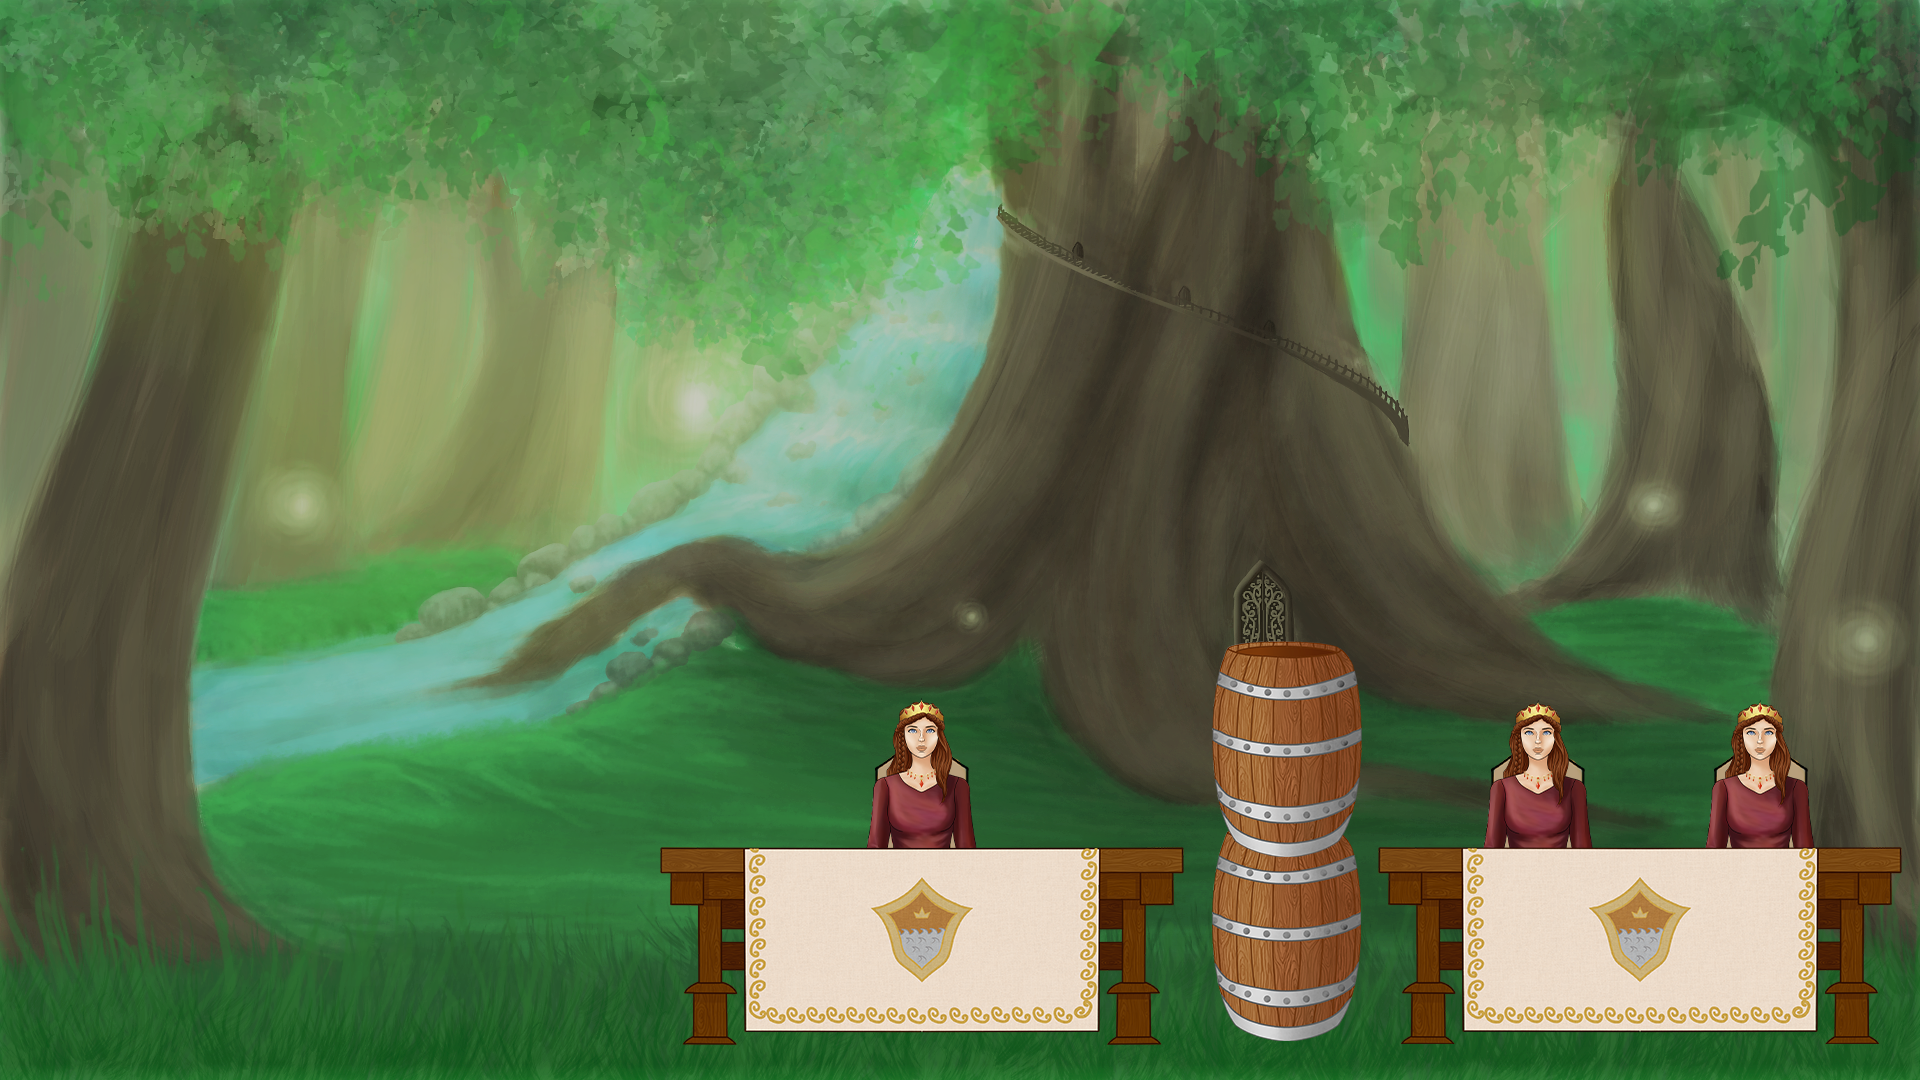
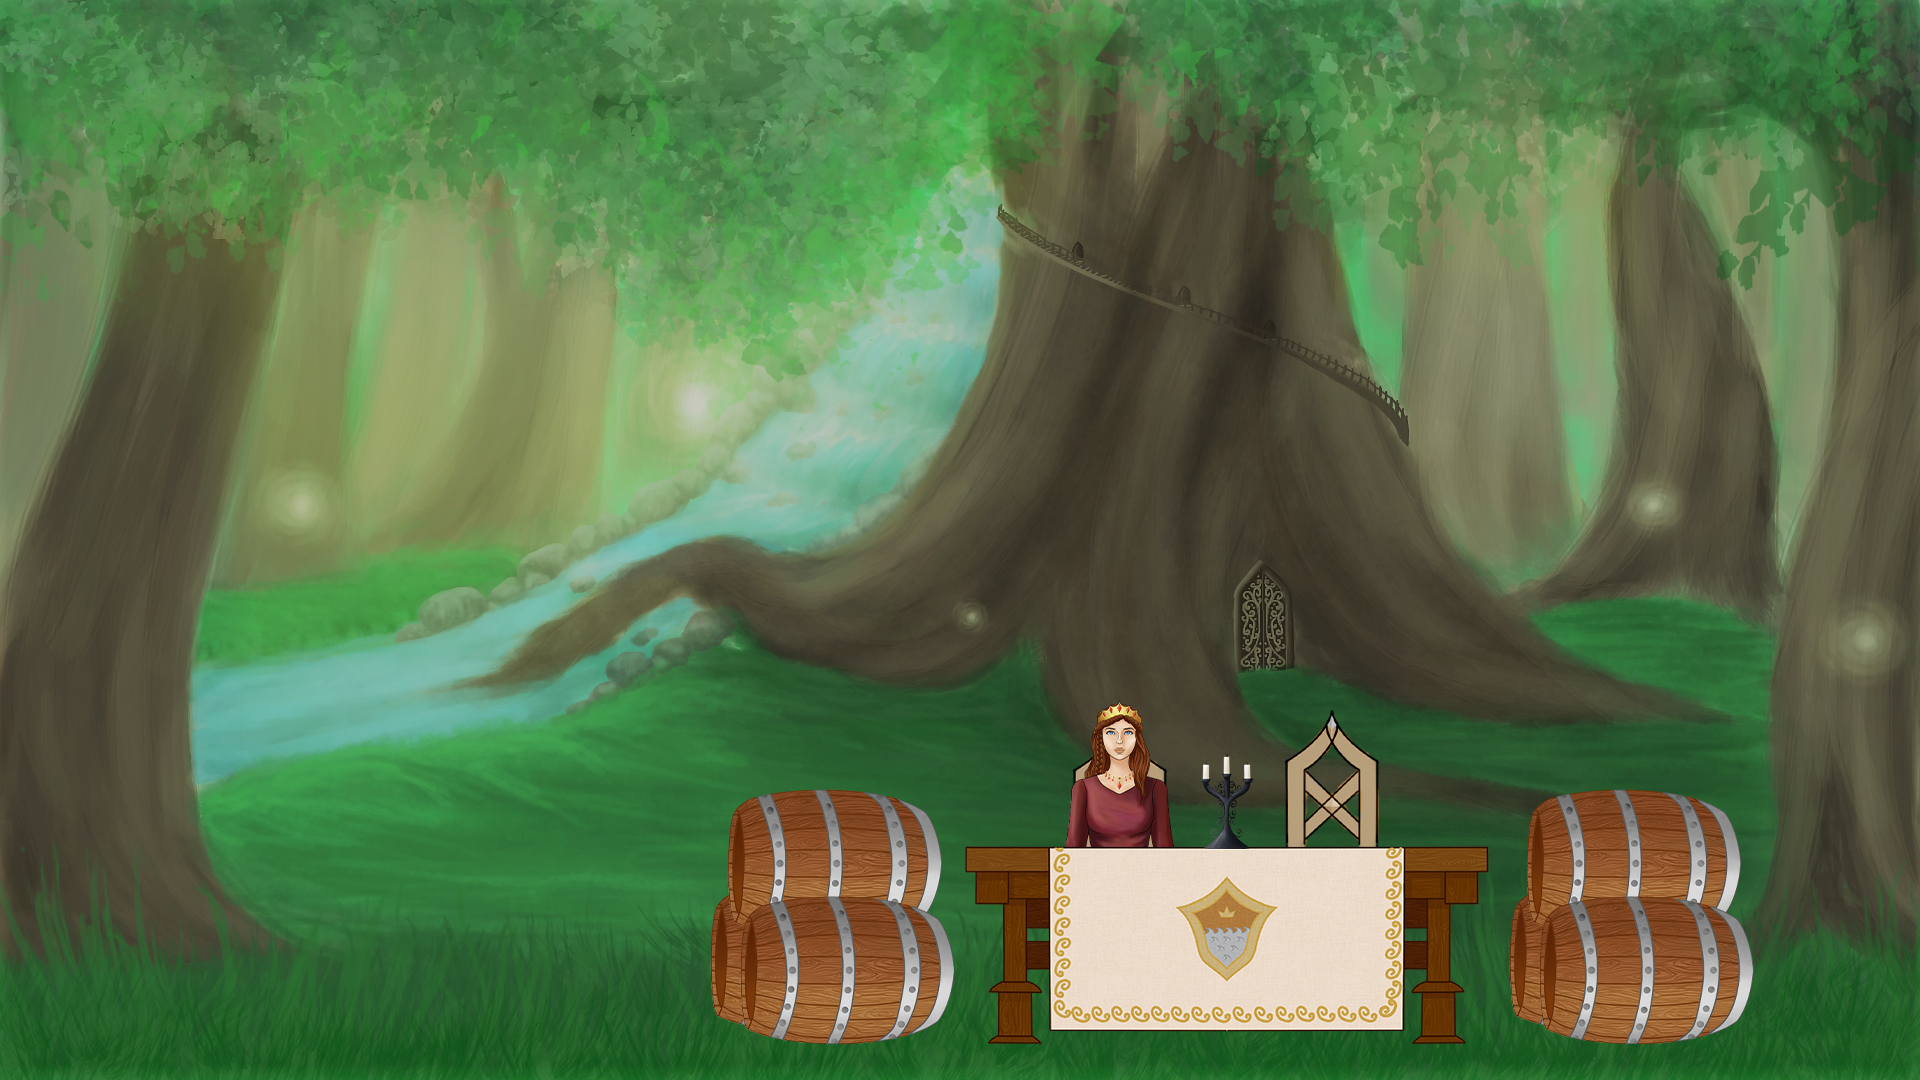
Add bunch of basic levels

Changed region(s): [[0.3438, 0.5806, 1.0, 0.9778]]

diff --git a/core/src/fi/tuni/tamk/tiko/kingsfeast/LevelBuilder.java b/core/src/fi/tuni/tamk/tiko/kingsfeast/LevelBuilder.java
@@ -29,8 +29,11 @@ class LevelBuilder {
         Array<LevelData> levels = new Array<>();
         levels.add(level1());
         levels.add(level2());
-        //levels.add(level3());
-        //levels.add(level4());
+        levels.add(level3());
+        levels.add(level4());
+        levels.add(level5());
+        levels.add(level6());
+        levels.add(level7());
         return levels;
     }
 
@@ -46,17 +49,27 @@ class LevelBuilder {
     }
 
     private LevelData level3() {
-        return new LevelData(kingsFeast.getAssetManager().get("level2.tmx",
+        return new LevelData(kingsFeast.getAssetManager().get("map3.tmx",
                 TiledMap.class));
     }
 
     private LevelData level4() {
-        return new LevelData(kingsFeast.getAssetManager().get("level3.tmx",
+        return new LevelData(kingsFeast.getAssetManager().get("map4.tmx",
                 TiledMap.class));
     }
 
     private LevelData level5() {
-        return new LevelData(kingsFeast.getAssetManager().get("level4.tmx",
+        return new LevelData(kingsFeast.getAssetManager().get("map5.tmx",
+                TiledMap.class));
+    }
+
+    private LevelData level6() {
+        return new LevelData(kingsFeast.getAssetManager().get("map6.tmx",
+                TiledMap.class));
+    }
+
+    private LevelData level7() {
+        return new LevelData(kingsFeast.getAssetManager().get("map7.tmx",
                 TiledMap.class));
     }
 

diff --git a/core/src/fi/tuni/tamk/tiko/kingsfeast/LoadingScreen.java b/core/src/fi/tuni/tamk/tiko/kingsfeast/LoadingScreen.java
@@ -74,8 +74,10 @@ public class LoadingScreen extends ScreenAdapter {
     private void update() {
         if (kingsFeast.getAssetManager().update()) {
             kingsFeast.setScreen(new MainMenuScreen(kingsFeast));
+        } else {
+            progress = kingsFeast.getAssetManager().getProgress();
         }
-        progress = kingsFeast.getAssetManager().getProgress();
+
     }
 
     // All of this just draws the progress bar.
@@ -94,6 +96,11 @@ public class LoadingScreen extends ScreenAdapter {
         kingsFeast.getAssetManager().getLogger().setLevel(Logger.DEBUG);
         kingsFeast.getAssetManager().load("map1.tmx", TiledMap.class);
         kingsFeast.getAssetManager().load("map2.tmx", TiledMap.class);
+        kingsFeast.getAssetManager().load("map3.tmx", TiledMap.class);
+        kingsFeast.getAssetManager().load("map4.tmx", TiledMap.class);
+        kingsFeast.getAssetManager().load("map5.tmx", TiledMap.class);
+        kingsFeast.getAssetManager().load("map6.tmx", TiledMap.class);
+        kingsFeast.getAssetManager().load("map7.tmx", TiledMap.class);
         kingsFeast.getAssetManager().load("level1.tmx", TiledMap.class);
         kingsFeast.getAssetManager().load("level2.tmx", TiledMap.class);
         kingsFeast.getAssetManager().load("level3.tmx", TiledMap.class);
